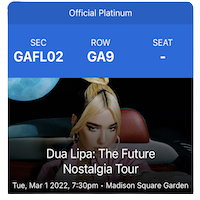
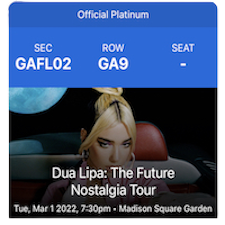
fixing alignment for gift

diff --git a/style.css b/style.css
@@ -9811,7 +9811,7 @@ footer a:hover, footer a:active, footer a:focus {
 
 .box {
   position: relative;
-  top: 95%;
+  top: 80%;
 }
 .box::before {
   content: "";
@@ -9830,7 +9830,7 @@ footer a:hover, footer a:active, footer a:focus {
   position: relative;
   height: 200px;
   width: 200px;
-  margin-top: 103.3333333333px;
+  margin-top: 123.3333333333px;
   background-color: #cc231e;
   border-bottom-left-radius: 5%;
   border-bottom-right-radius: 5%;
@@ -9839,7 +9839,7 @@ footer a:hover, footer a:active, footer a:focus {
 }
 .box-body .img{
   opacity: 0;
-  ransform: translateY(0%);
+  transform: translateY(0%);
   transition: all 0.5s;
   margin: 0 auto;
   display: block;
